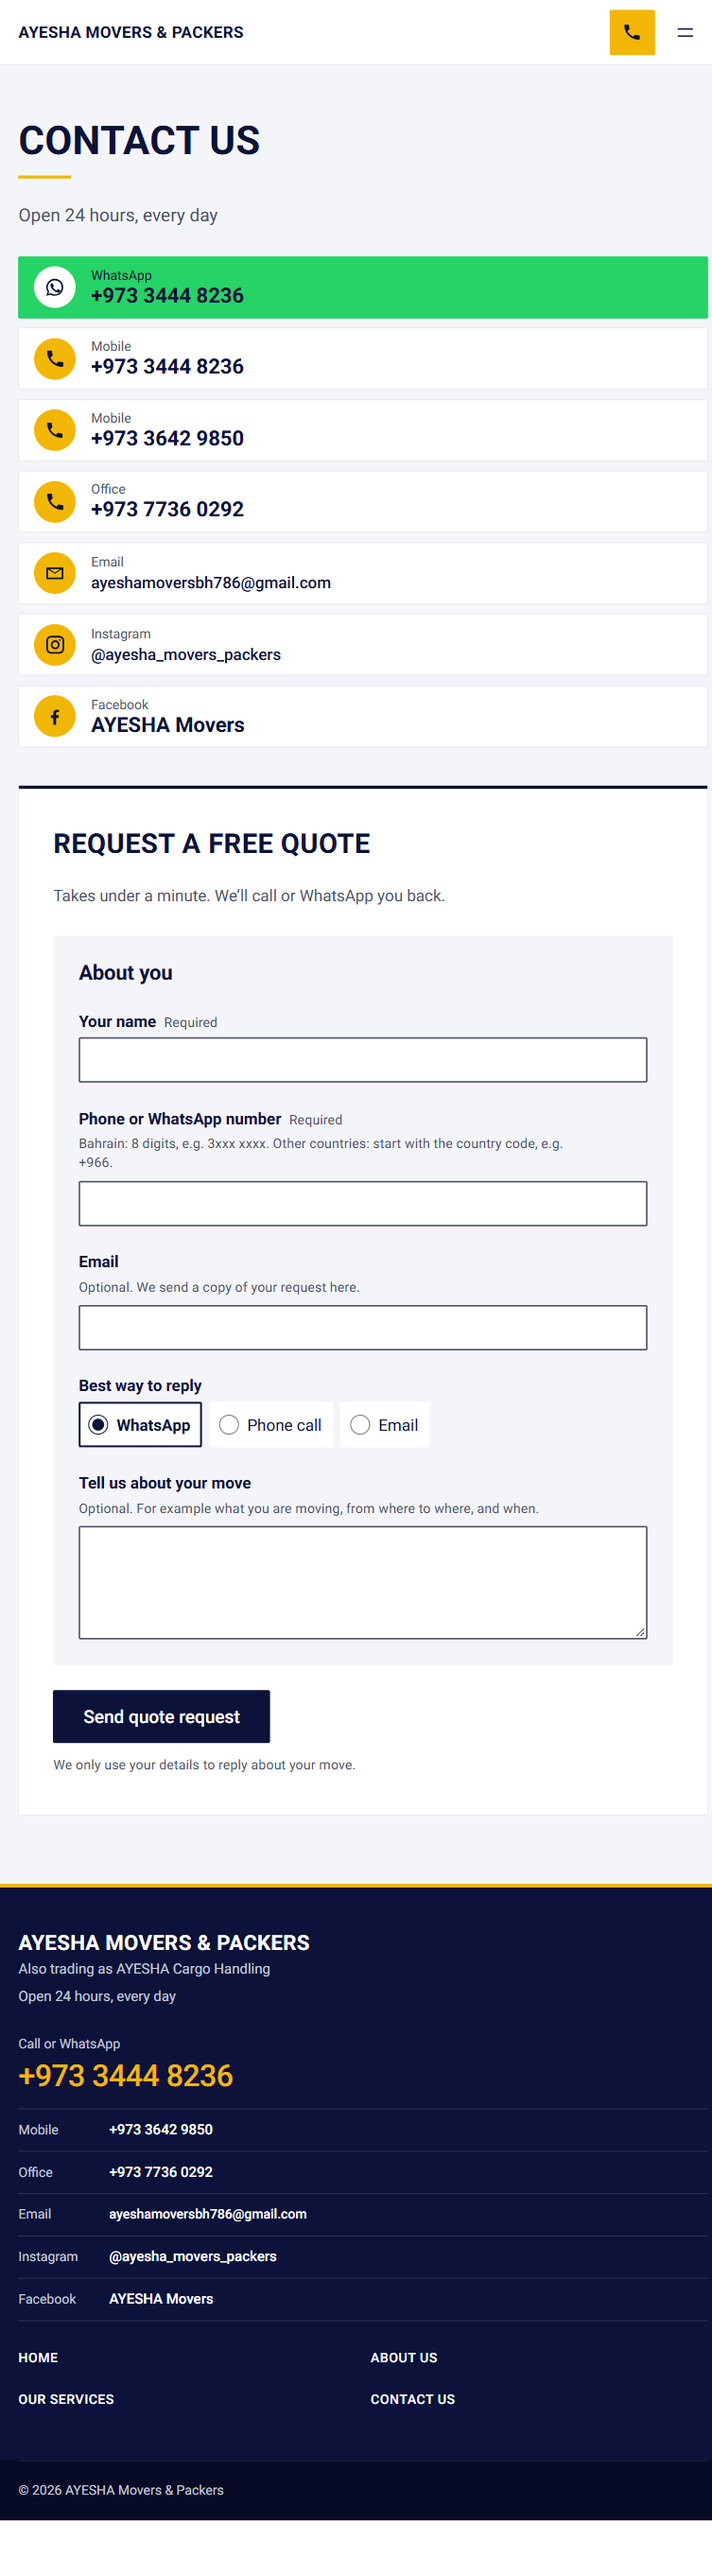
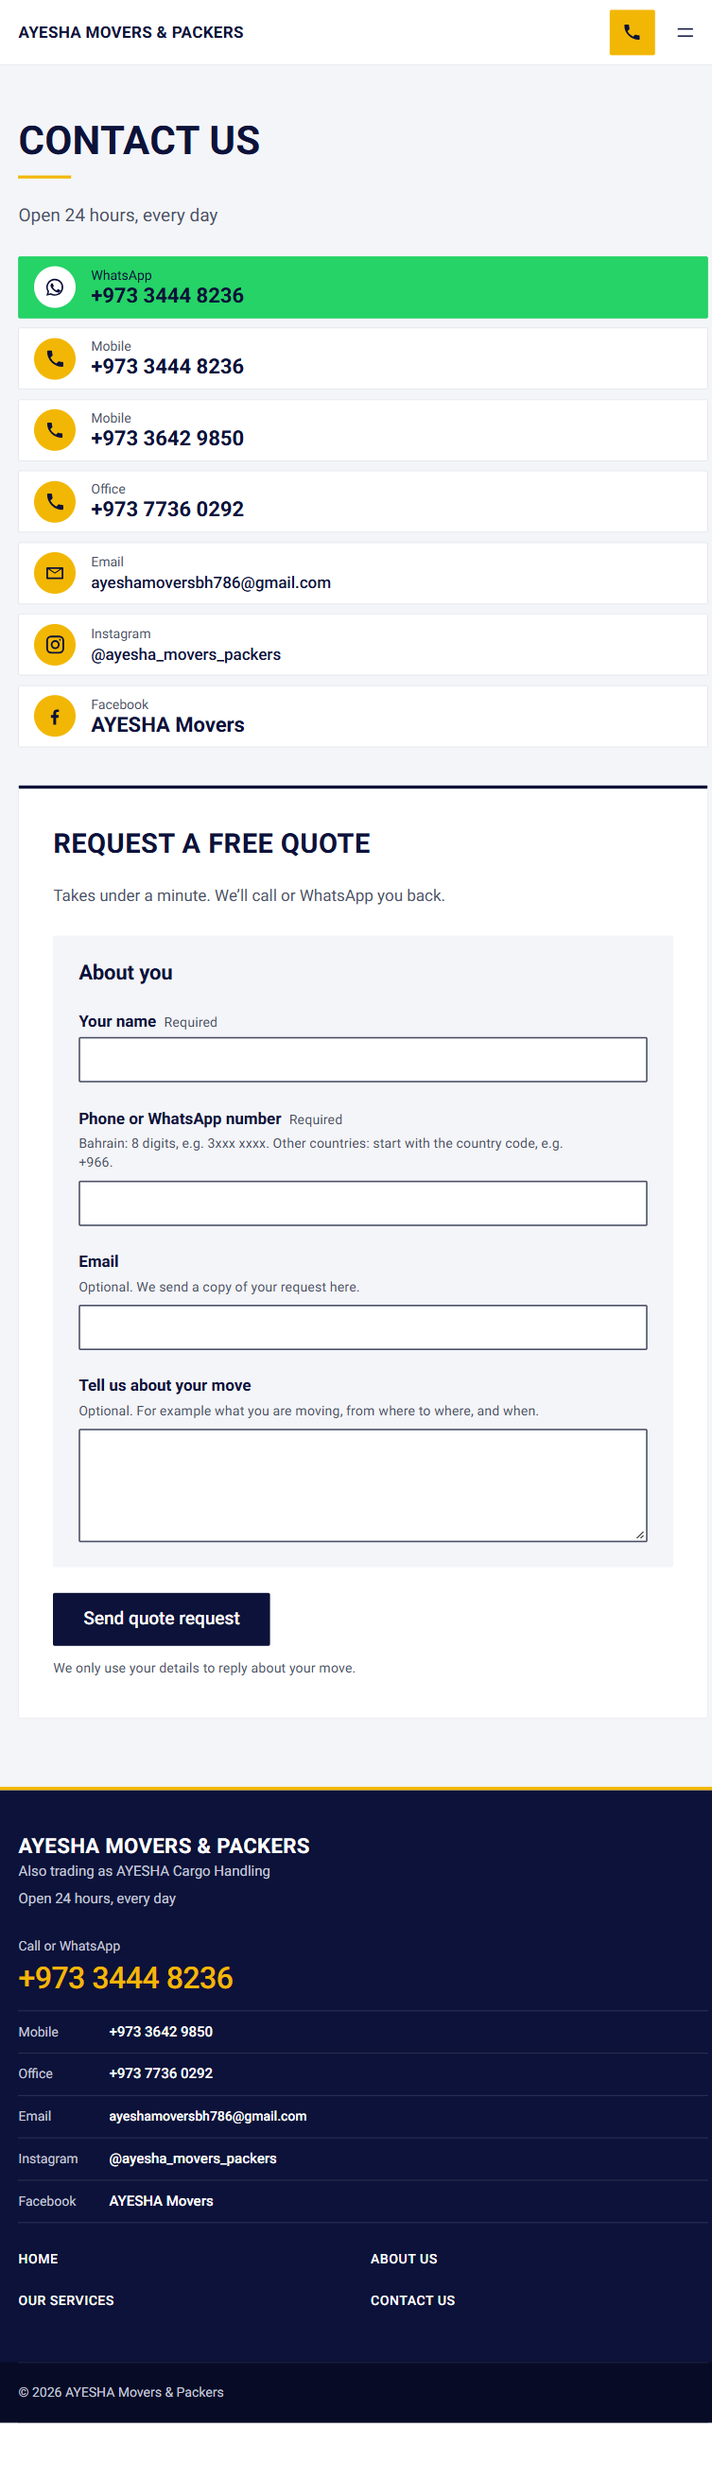
Phase 7: no "Best way to reply" on Contact Us (block switch); choice tiles aligned
- Quote form block setting "Ask 'Best way to reply'" (off on Contact Us): not rendered,
  posted value dropped, row left out of the admin screen and emails
- Choice tiles: same 1px edge on every tile, selected = 2px navy inner edge + tint with the
  same text weight, equal-width tiles in every row
- Tests and screenshots in PROGRESS.md

diff --git a/wp-content/plugins/ayesha-core/blocks/quote-form/style.css b/wp-content/plugins/ayesha-core/blocks/quote-form/style.css
@@ -188,8 +188,7 @@
 }
 
 .ayesha-qf__choices--row {
-	display: flex;
-	flex-wrap: wrap;
+	grid-template-columns: repeat(auto-fit, minmax(8.5rem, 1fr));
 }
 
 .ayesha-qf__choices--pairs {
@@ -207,13 +206,17 @@
 	display: flex;
 	align-items: center;
 	min-block-size: var(--aqf-tap);
+	box-sizing: border-box;
 	border-radius: var(--wp--custom--radius, 4px);
 	background: var(--aqf-paper);
+	/* Every tile has the same 1px edge, so selected and unselected tiles line up. */
+	box-shadow: inset 0 0 0 1px #c9cdd8;
 }
 
 .ayesha-qf__choice--after {
 	margin-block-start: 0.5rem;
 	background: none;
+	box-shadow: none;
 }
 
 .ayesha-qf__check {
@@ -247,9 +250,11 @@
 	inset: 0;
 }
 
+/* Selected: a 2px navy edge drawn inside the tile and a light tint. The text keeps its weight,
+   so the tile doesn't change size. */
 .ayesha-qf__choice:has(.ayesha-qf__check:checked):not(.ayesha-qf__choice--after) {
 	box-shadow: inset 0 0 0 2px var(--aqf-teal);
-	font-weight: 600;
+	background: #eef0f7;
 }
 
 .ayesha-qf__choice:has(.ayesha-qf__check:focus-visible) {
@@ -262,9 +267,7 @@
 	box-shadow: none;
 }
 
-.ayesha-qf__choices--row .ayesha-qf__choice {
-	flex: 0 1 auto;
-}
+
 
 /* "For how long" while no truck is picked (JavaScript only). */
 .ayesha-qf__group[hidden] {

diff --git a/wp-content/plugins/ayesha-core/blocks/quote-form/editor.js b/wp-content/plugins/ayesha-core/blocks/quote-form/editor.js
@@ -103,7 +103,20 @@
 								props.setAttributes( { showMoveParts: value } );
 							},
 							__nextHasNoMarginBottom: true,
-						} )
+						} ),
+						el( 'div', { style: { marginTop: '16px' } },
+							el( c.ToggleControl, {
+								label: __( 'Ask "Best way to reply" (WhatsApp, phone call or email)', 'ayesha-core' ),
+								help: props.attributes.askReply
+									? __( 'The customer picks how you should reply.', 'ayesha-core' )
+									: __( 'Not asked: you choose how to reply. The question comes back when you switch this on.', 'ayesha-core' ),
+								checked: !! props.attributes.askReply,
+								onChange: function ( value ) {
+									props.setAttributes( { askReply: value } );
+								},
+								__nextHasNoMarginBottom: true,
+							} )
+						)
 					),
 					panels.map( function ( panel, i ) {
 						return el( c.PanelBody, { key: i, title: panel[ 0 ], initialOpen: false },

diff --git a/docs/content/contact.html b/docs/content/contact.html
@@ -91,7 +91,7 @@
 <p>Takes under a minute. We'll call or WhatsApp you back.</p>
 <!-- /wp:paragraph -->
 
-<!-- wp:ayesha/quote-form {"showMoveParts":false} /--></div>
+<!-- wp:ayesha/quote-form {"showMoveParts":false,"askReply":false} /--></div>
 <!-- /wp:column --></div>
 <!-- /wp:columns --></section>
 <!-- /wp:group -->

diff --git a/wp-content/plugins/ayesha-core/includes/quote-form.php b/wp-content/plugins/ayesha-core/includes/quote-form.php
@@ -46,13 +46,28 @@ function ayesha_core_quote_move_defaults() {
 }
 
 /**
- * Whether the quote form on a page shows parts 2 and 3 (the block's "Show parts 2 and 3" setting).
- * Read from the saved page, so a visitor can't switch the required fields off by editing the form.
+ * The quote form block's settings on a page, read from the saved page (so a visitor can't switch
+ * required fields off by editing the form): "Show parts 2 and 3" and "Ask 'Best way to reply'".
+ * Both are on when there is no form on the page or a setting was never changed.
  *
  * @param int $post_id Page with the form.
- * @return bool True when there is no form on the page or the setting is on (the full form).
+ * @return array{full: bool, reply: bool}
  */
-function ayesha_core_quote_full_form( $post_id ) {
+function ayesha_core_quote_form_settings( $post_id ) {
+	$attrs = ayesha_core_quote_form_attrs( $post_id );
+	return array(
+		'full'  => ! array_key_exists( 'showMoveParts', $attrs ) || ! empty( $attrs['showMoveParts'] ),
+		'reply' => ! array_key_exists( 'askReply', $attrs ) || ! empty( $attrs['askReply'] ),
+	);
+}
+
+/**
+ * The saved attributes of the first quote form block on a page (empty when there is none).
+ *
+ * @param int $post_id Page.
+ * @return array
+ */
+function ayesha_core_quote_form_attrs( $post_id ) {
 	$find = static function ( array $blocks ) use ( &$find ) {
 		foreach ( $blocks as $block ) {
 			if ( 'ayesha/quote-form' === ( $block['blockName'] ?? '' ) ) {
@@ -66,7 +81,7 @@ function ayesha_core_quote_full_form( $post_id ) {
 		return null;
 	};
 	$block = $post_id ? $find( parse_blocks( (string) get_post_field( 'post_content', $post_id, 'raw' ) ) ) : null;
-	return null === $block || ! array_key_exists( 'showMoveParts', (array) $block['attrs'] ) || ! empty( $block['attrs']['showMoveParts'] );
+	return $block ? (array) $block['attrs'] : array();
 }
 
 /**
@@ -288,11 +303,15 @@ function ayesha_core_quote_today() {
  * service fields are ignored, never required and stored empty, and the enquiry is marked
  * 'parts' => 'short' so the admin screen, the emails and the WhatsApp text leave them out.
  *
- * @param array $raw  Unslashed $_POST['aq'].
- * @param bool  $full Whether parts 2 and 3 are on the form.
+ * With $ask_reply false ("Ask 'Best way to reply'" is off), the reply choice is not asked: it is
+ * stored empty and left out of the emails and the admin screen.
+ *
+ * @param array $raw       Unslashed $_POST['aq'].
+ * @param bool  $full      Whether parts 2 and 3 are on the form.
+ * @param bool  $ask_reply Whether "Best way to reply" is on the form.
  * @return array{0: array, 1: array<string, string>} Clean values (as typed where invalid, so the form can show them again) and errors by field.
  */
-function ayesha_core_quote_validate( array $raw, $full = true ) {
+function ayesha_core_quote_validate( array $raw, $full = true, $ask_reply = true ) {
 	$options = ayesha_core_quote_options();
 	$errors  = array();
 	$pick    = static function ( $key, $list ) use ( $raw, $options ) {
@@ -323,7 +342,9 @@ function ayesha_core_quote_validate( array $raw, $full = true ) {
 		'truck'         => $pick( 'truck', 'truck' ),
 		'truck_time'    => $pick( 'truck_time', 'truck_time' ),
 	);
-	if ( '' === $data['reply'] ) {
+	if ( ! $ask_reply ) {
+		$data['reply'] = '';
+	} elseif ( '' === $data['reply'] ) {
 		$data['reply'] = 'whatsapp';
 	}
 	if ( '' === $data['truck'] ) {
@@ -501,7 +522,8 @@ function ayesha_core_quote_handle() {
 
 	// phpcs:disable WordPress.Security.NonceVerification.Missing -- the nonce is one of the checks below; every value is validated.
 	$raw = isset( $_POST['aq'] ) && is_array( $_POST['aq'] ) ? wp_unslash( $_POST['aq'] ) : array(); // phpcs:ignore WordPress.Security.ValidatedSanitizedInput.InputNotSanitized -- sanitised field by field in ayesha_core_quote_validate().
-	list( $data, $errors ) = ayesha_core_quote_validate( $raw, ayesha_core_quote_full_form( $page_id ) );
+	$form                  = ayesha_core_quote_form_settings( $page_id );
+	list( $data, $errors ) = ayesha_core_quote_validate( $raw, $form['full'], $form['reply'] );
 
 	$nonce   = isset( $_POST['_aqnonce'] ) ? sanitize_key( wp_unslash( $_POST['_aqnonce'] ) ) : '';
 	$honey   = isset( $_POST['aq_website'] ) ? trim( (string) wp_unslash( $_POST['aq_website'] ) ) : ''; // phpcs:ignore WordPress.Security.ValidatedSanitizedInput.InputNotSanitized -- only tested for emptiness.
@@ -683,8 +705,12 @@ function ayesha_core_quote_rows( array $data ) {
 		array( __( 'Name', 'ayesha-core' ), (string) ( $data['name'] ?? '' ) ),
 		array( __( 'Phone / WhatsApp', 'ayesha-core' ), (string) ( $data['phone'] ?? '' ) ),
 		array( __( 'Email', 'ayesha-core' ), '' !== ( $data['email'] ?? '' ) ? (string) $data['email'] : $none ),
-		array( __( 'Best way to reply', 'ayesha-core' ), ayesha_core_quote_label( 'reply', $data['reply'] ?? 'whatsapp' ) ),
 	);
+	// Only when the form asked it (old enquiries without the key always had it).
+	$reply = array_key_exists( 'reply', $data ) ? (string) $data['reply'] : 'whatsapp';
+	if ( '' !== $reply ) {
+		$rows[] = array( __( 'Best way to reply', 'ayesha-core' ), ayesha_core_quote_label( 'reply', $reply ) );
+	}
 	// The message is optional: its row only appears when the customer wrote something.
 	if ( '' !== (string) ( $data['message'] ?? '' ) ) {
 		$rows[] = array( __( 'About the move', 'ayesha-core' ), (string) $data['message'] );

diff --git a/wp-content/plugins/ayesha-core/includes/quote-render.php b/wp-content/plugins/ayesha-core/includes/quote-render.php
@@ -131,7 +131,9 @@ function ayesha_core_quote_render_form( array $a, $state, $page ) {
 			'spellcheck'   => 'false',
 		)
 	);
-	$html .= ayesha_core_quote_choices( 'reply', 'radio', $a['labelReply'], '', $o['reply'], array( $v['reply'] ), $e, false, 'row' );
+	if ( ! empty( $a['askReply'] ) ) {
+		$html .= ayesha_core_quote_choices( 'reply', 'radio', $a['labelReply'], '', $o['reply'], array( '' !== $v['reply'] ? $v['reply'] : 'whatsapp' ), $e, false, 'row' );
+	}
 	$html .= ayesha_core_quote_textarea( 'message', $a['labelMessage'], $a['hintMessage'], $v['message'], $e, AYESHA_CORE_QUOTE_MESSAGE_MAX );
 	$html .= '</fieldset>';
 

diff --git a/wp-content/themes/ayesha-movers/patterns/contact-page.php b/wp-content/themes/ayesha-movers/patterns/contact-page.php
@@ -67,7 +67,7 @@ $ayesha_rows = array(
 <p>Takes under a minute. We'll call or WhatsApp you back.</p>
 <!-- /wp:paragraph -->
 
-<!-- wp:ayesha/quote-form {"showMoveParts":false} /--></div>
+<!-- wp:ayesha/quote-form {"showMoveParts":false,"askReply":false} /--></div>
 <!-- /wp:column --></div>
 <!-- /wp:columns --></section>
 <!-- /wp:group -->

diff --git a/PROGRESS.md b/PROGRESS.md
@@ -68,13 +68,14 @@ In the Media Library, the tags are prefixed to the title (`[DO NOT USE]`, `[PLAC
     - C: two columns, left heading + intro + gold "See all services" button + photo 12 in a gold frame (computers only); right six compact cards 2×3 with the icon in a white circle. List **not on Home**; photo 12 **stays** (moves to the left column). The intro sentence is **proposed new wording** ("Labour, trucks and carpenters from one team, for moves across Bahrain and to the GCC."), not in the content yet.
     - All three keep the heading, the six titles linking to `/our-services/#house-shifting` … `#cargo`, their texts and the "Ask on WhatsApp" links (the lead card's green "Ask about this on WhatsApp" becomes a text link in A and C). No "Read more →" link added: it would be new words next to a title that already links to the service.
   - **Fifth round (2026-10-06): option A built.** Home "What we do" is six equal cards on light grey (3 × 2 on computers, 2 across from 640px, 1 on phones): icon in a gold circle (from the title's `#anchor`), centred title linking to its Our Services section, the same text, "Ask on WhatsApp" at the foot of the card; cards lift on hover (pointer devices, not with reduced motion); "See all services" is an outline button. As noted for A: the house-shifting card's "Every move includes" list and photo 12 are **no longer on Home** (the list is on Our Services; photo 12 stays in the Media Library), and its green "Ask about this on WhatsApp" button is now the same "Ask on WhatsApp" link as the others (same message). Every title, text, link and WhatsApp message was checked identical before saving. **Side effect fixed:** with "What we do" now light grey, the bands were re-alternated with style classes only (no words): Home "How a move works" → white, synced "Where we go" → Light grey panel, About "Who runs it + How we work" → white.
+  - **Sixth round (2026-10-06):** "Best way to reply" removed from the Contact Us form (new block setting **Form parts → Ask "Best way to reply"**, off on Contact Us; the question is kept and comes back when switched on), and the choice tiles aligned across the whole form: every tile has the same 1px edge, the selected one a 2px navy edge drawn inside plus a light tint, the text keeps its weight (so the tile no longer grows), and tiles in a row are equal width.
 - **Next step:** the user reviews `phase-7-design`; after approval: remove the junctions (`rmdir`), restore the main checkout's folders, merge into `main`, push, smoke-test. Then Phase 8.
 - **Last completed:** Phase 6 (Contact Us + quote form + email), approved and merged into `main` 2026-10-03 at 497997f (fast-forward); smoke test passed (see Test results › Phase 6 › Post-merge smoke test).
-- **Test data kept on the local site (user decision 2026-10-03):** 19 test enquiries AYM-261003-001 … 019 (015–019 sent in Phase 7: "Phase7 Test", "Phase7b Test", "Short NoMsg Test", "Short Msg <b>Test</b>", "Full Form Test") and WP Mail Logging rows 4–28 (row 27 went to the made-up address shorttest@example.com; locally nothing is delivered).
+- **Test data kept on the local site (user decision 2026-10-03):** 19 test enquiries AYM-261003-001 … 019 and AYM-261006-001 (015–019 and 261006-001 sent in Phase 7: "Phase7 Test", "Phase7b Test", "Short NoMsg Test", "Short Msg <b>Test</b>", "Full Form Test") and WP Mail Logging rows 4–28 (row 27 went to the made-up address shorttest@example.com; locally nothing is delivered).
 - **Phase 8 notes (QA, SEO, performance, handover; scope approved 2026-10-03, carried over from Phase 6):**
   - **axe landmark issue (moderate, `region`, on every page):** the sticky Call/WhatsApp bar (phones, template part `sticky-bar`) and the floating WhatsApp button (desktop, printed by AYESHA Core in `wp_footer`) sit outside a landmark. Fix: give the bar a labelled `nav` or `aside` wrapper (template part `tagName` + `aria-label`) and the floating button an `aside` wrapper with a label; re-run axe on all 4 pages.
   - **Go-live checklist:**
-    - **Delete all test enquiries** (AYM-261003-001 … 019 and any later test requests: Enquiries → select all → Move to Trash → Empty Trash) and the WP Mail Logging test rows.
+    - **Delete all test enquiries** (AYM-261003-001 … 019, AYM-261006-001 and any later test requests: Enquiries → select all → Move to Trash → Empty Trash) and the WP Mail Logging test rows.
     - WP Mail SMTP + Gmail App Password, then a test email and a real test request (`docs/email-setup.md`).
     - Deactivate and delete WP Mail Logging.
     - Exclude `/contact-us/` from any page cache (the form's nonce lasts 24 h).
@@ -188,6 +189,8 @@ In the Media Library, the tags are prefixed to the title (`[DO NOT USE]`, `[PLAC
   - Noticed, not changed: the heading "Request a detailed quote" and "Takes about 3 minutes" were written for the full form; with part 1 only you may want shorter wording (editable in the page).
 
 - 2026-10-06: Phase 7 fifth round: user chose **option A** for Home "What we do". Built as plain blocks: section (Light grey panel) → heading → group "Service cards" (`ayesha-services__grid`) → six groups `ayesha-service-card` (heading with link, paragraph, Buttons with a text-link WhatsApp button) → Buttons "See all services" (outline). Old classes `ayesha-service-lead`, `ayesha-service-row`, `ayesha-services__columns/__rows/__photo` and their CSS removed. Pattern `what-we-do.php` rewritten to the same structure. The section was swapped in the database by a WP-CLI script that compared the old and new headings (7), paragraphs (6) and WhatsApp messages (6) and saved only when all were identical; a database dump was taken first.
+
+- 2026-10-06: Phase 7 sixth round (user request, with a screenshot of the "Best way to reply" tiles): **"Best way to reply" off on Contact Us** as a block setting `askReply` (default true), read from the saved page like `showMoveParts` (`ayesha_core_quote_form_settings()`; the old `ayesha_core_quote_full_form()` wrapper was removed). While it's off: the choice isn't rendered, any posted value is dropped and stored as `reply` = '', and the "Best way to reply" row is left out of the admin screen and both emails (older enquiries still show theirs). **Choice tiles:** the misalignment came from only the selected tile having an edge and bold text (which widened it); now all tiles share a 1px `#c9cdd8` edge, the selected one has a 2px navy inner edge and a `#eef0f7` tint with the same text weight, and "row" groups use an equal-width grid (`repeat(auto-fit, minmax(8.5rem, 1fr))`) like the other groups.
 
 ## Open questions for the client
 - Price point: the site says "Low rates, with labour included" (his own selling point, no superlative). Confirm the wording
@@ -549,4 +552,16 @@ Screenshots: `docs/screenshots/phase-7-design/what-we-do/built-375.png`, `built-
 | D6 | Horizontal scroll; sticky bar / floating button | 0 px; nothing covered | 0 px in all 12 runs; footer clear of the bar; floating button over no control | Pass |
 | D7 | Icons | One per card, from the link | 6/6 cards show their icon (house, box, sofa, TV, truck, container) | Pass |
 | D8 | Contact Us wording (fourth round) | New heading and line, `#quote` kept | "Request a free quote" (`id="quote"`), "Takes under a minute. We'll call or WhatsApp you back." | Pass |
+
+#### Phase 7, sixth round ("Best way to reply" off; tiles aligned; run 2026-10-06)
+Screenshots: `form-no-reply-375.png` (Contact form now), `form-tiles-part{1,2,3}-{375,1280}.png` (the full form, switched on briefly for this check and switched back), `editor-form-parts-switch.png` (both switches), `site-contact-{375,768,1280}.png`.
+
+| # | Test | Expected | Result | Pass/Fail |
+|---|---|---|---|---|
+| E1 | Contact Us form fields | No "Best way to reply" | Fields: name, phone, email, message; no `aq[reply]` | Pass |
+| E2 | Valid send with an injected `aq[reply]=email` | Sent; reply ignored | AYM-261006-001 sent; stored `reply` = ''; rows Name, Phone, Email, About the move; owner email and confirmation don't mention "Best way to reply"; an older enquiry (018) still lists its "Best way to reply" | Pass |
+| E3 | Tile alignment (full form, temporarily on) | Same size and edge per row | Equal widths on every line (e.g. 1280: Best way to reply 3 × 174 px, Truck hire 3 × 174 px, For how long 2 × 266 px; 375: one per line, 270 px), 48 px tall (68 px where a label wraps), the selected tile only changes its edge and tint | Pass |
+| E4 | Contact Us restored | `{"showMoveParts":false,"askReply":false}` | Saved block shows both settings off; editor shows both switches off, nothing unsaved | Pass |
+| E5 | Invalid blocks | 0 | Home 112, About 31, Our Services 99, Contact 31 blocks: 0 invalid | Pass |
+| E6 | Contact Us at 375/768/1280 | No horizontal scroll; axe 0 serious/critical | 0 px; only the known moderate `region` | Pass |
 

diff --git a/docs/editing-guide.md b/docs/editing-guide.md
@@ -225,8 +225,10 @@ Open **Pages → Contact Us**. In **List View**: Contact → Columns → the lef
 ### The quote form
 
 **Short form or full form.** Click the form; at the top of the sidebar, **Form parts → Show parts 2 and 3** switches between:
-- **Off (now):** only part 1, "About you": name, phone, email, best way to reply, and the optional box **Tell us about your move** (up to 1,000 characters). No step numbers are shown. The move and service questions are not asked, not required, and don't appear in the emails, in Enquiries or in the WhatsApp message.
+- **Off (now):** only part 1, "About you": name, phone, email, best way to reply (if asked, see below), and the optional box **Tell us about your move** (up to 1,000 characters). No step numbers are shown. The move and service questions are not asked, not required, and don't appear in the emails, in Enquiries or in the WhatsApp message.
 - **On:** the full form with the three numbered parts (About you, Your move, What you need). The "Tell us about your move" box stays in part 1.
+
+**Ask "Best way to reply"** (in the same Form parts panel) shows or hides the WhatsApp / Phone call / Email choice. It's **off** on Contact Us now: you decide how to reply, and the emails and Enquiries don't show the line.
 
 Click **Save** after switching. The words of parts 2 and 3 stay in their panels while they're switched off.
 
